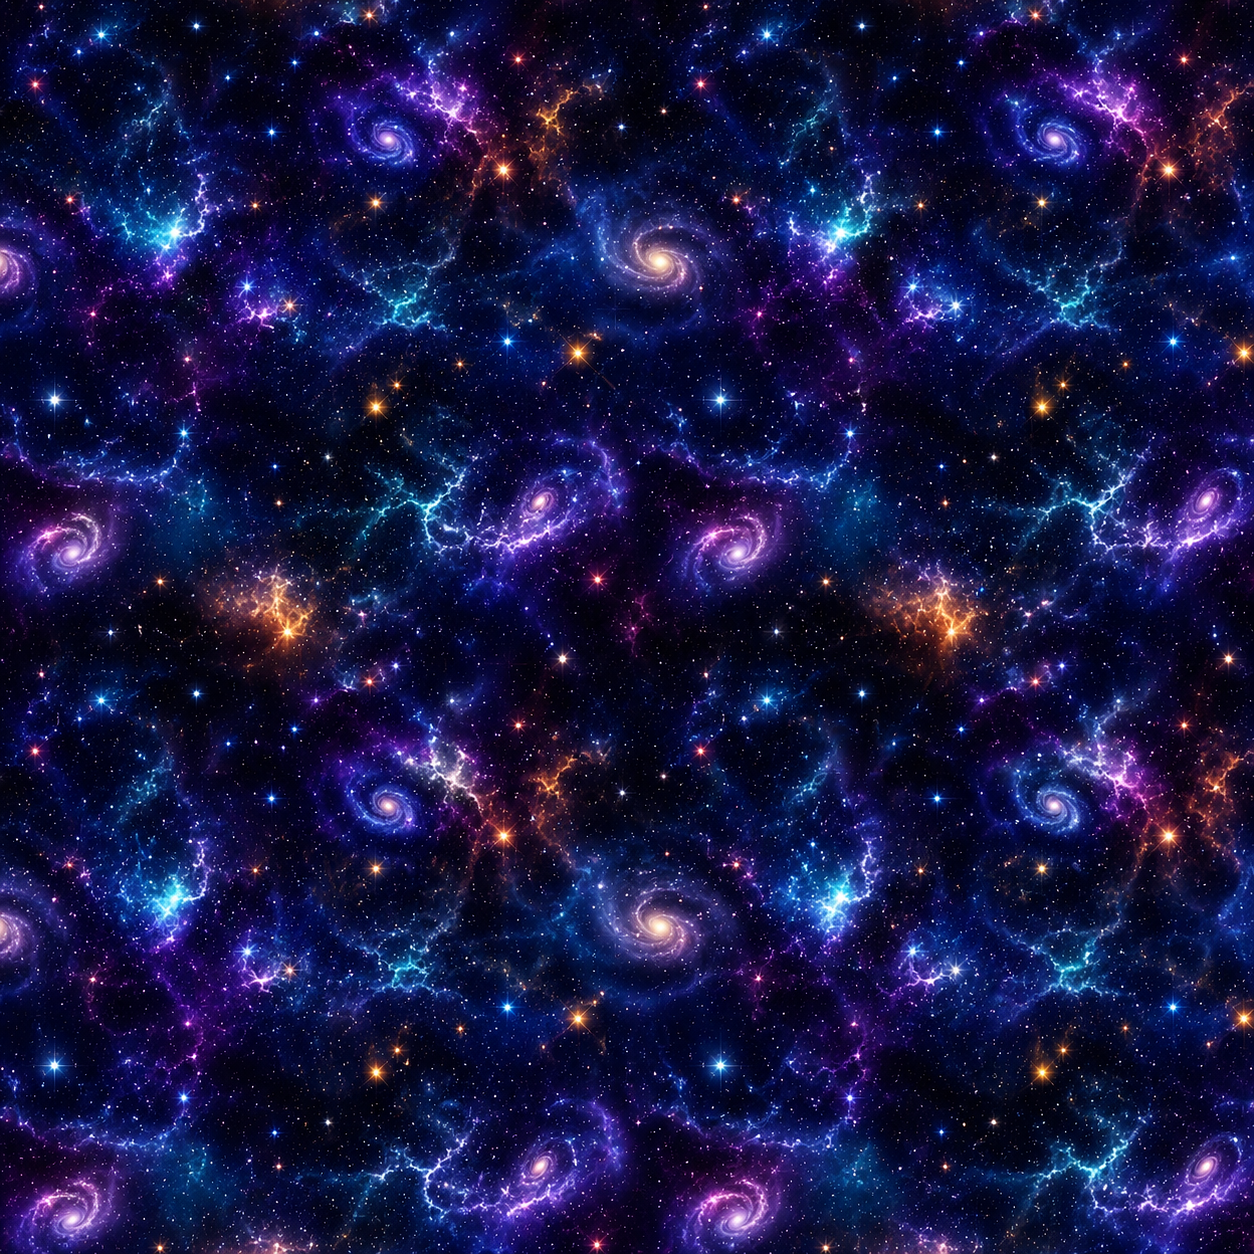
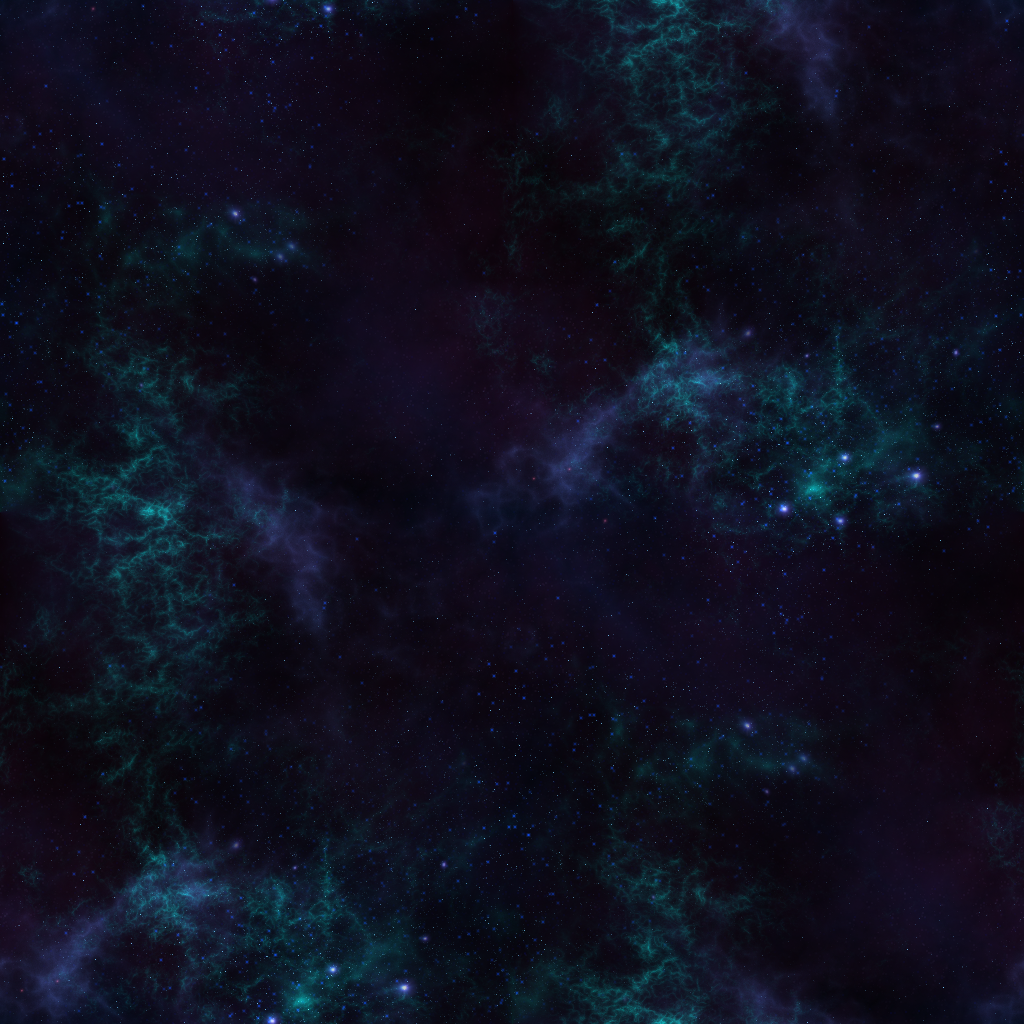
add more img

diff --git a/script.js b/script.js
@@ -1483,7 +1483,7 @@ function tv_stars(k) {
 
 const spaceImages = {};
 
-for(let i=1;i<=3;i++){
+for(let i=1;i<=33;i++){
     let name = String(i).padStart(3,'0');
     let img = new Image();
     img.src = `img/space/${name}.png`;
@@ -1523,6 +1523,70 @@ function tv_space(k, imgName="001") {
     let ox = -s.x1;
     let oy = -s.y1;
 
+    for (let xPos = ox; xPos < W; xPos += img.width) {
+        for (let yPos = oy; yPos < H; yPos += img.height) {
+            x.drawImage(
+                img,
+                xPos,
+                yPos,
+                img.width,
+                img.height
+            );
+        }
+    }
+}
+
+// ฟังก์ชันสุ่มชื่อรูปภาพจากรายการ 001 - 020
+function getRandomSpaceImgName() {
+    let randomNum = Math.floor(Math.random() * 33) + 1;
+    return String(randomNum).padStart(3, '0');
+}
+
+function tv_space_random(k) {
+    // 1. กำหนดค่าเริ่มต้นให้กับ State ถ้ายังไม่มี
+    if (!S.tv_space) {
+        S.tv_space = {
+            x1: 0,
+            y1: 0,
+            speedX: 5,
+            speedY: 1,
+            currentImgName: getRandomSpaceImgName(), // รูปเริ่มต้นจากการสุ่ม
+            lastSwitchTime: Date.now()                // บันทึกเวลาเริ่มต้น
+        };
+    }
+
+    let s = S.tv_space;
+
+    // 2. ตรวจสอบว่าผ่านไปครบ 60 วินาที (60,000 ms) หรือยัง
+    const now = Date.now();
+    if (now - s.lastSwitchTime >= 60000) {
+        s.currentImgName = getRandomSpaceImgName(); // สุ่มรูปใหม่
+        s.lastSwitchTime = now;                     // รีเซ็ตเวลาเริ่มต้นใหม่
+    }
+
+    // 3. ดึงรูปภาพตามคีย์ที่สุ่มได้ปัจจุบัน
+    const img = spaceImages[s.currentImgName];
+
+    // ตรวจสอบการโหลดรูป
+    if (!img?.complete || !img.width) {
+        bg(0);
+        x.fillStyle = "#888";
+        x.font = "20px sans-serif";
+        x.textAlign = "center";
+        x.fillText("Loading...", W/2, H/2);
+        return;
+    }
+
+    bg(0);
+
+    // คำนวณตำแหน่งการเลื่อน (Scrolling)
+    s.x1 = (s.x1 + k * s.speedX) % img.width;
+    s.y1 = (s.y1 + k * s.speedY) % img.height;
+
+    let ox = -s.x1;
+    let oy = -s.y1;
+
+    // วาดรูปต่อกันเต็มหน้าจอ
     for (let xPos = ox; xPos < W; xPos += img.width) {
         for (let yPos = oy; yPos < H; yPos += img.height) {
             x.drawImage(
@@ -5332,11 +5396,8 @@ const scenes = {
     tv_dvd:        { category: "tv", type: "canvas", title: "TV RETRO DVD DRIFT [60FPS]", render: (k) => tv_dvd(k) }, 
     tv_inkBubbles: { category: "tv", type: "canvas", title: "TV FLOATING BUBBLES", render: (k) => tv_inkBubbles(k) }, 
     tv_spacep1:  	   { category: "tv", type: "canvas", title: "TV SPACE : 1", render: (k) => tv_space(k,"001") }, 
-    tv_spacep2:  	   { category: "tv", type: "canvas", title: "TV SPACE : 2", render: (k) => tv_space(k,"002") }, 
-    tv_spacep3:  	   { category: "tv", type: "canvas", title: "TV SPACE : 3", render: (k) => tv_space(k,"003") }, 
     tv_space2p1:	   { category: "tv", type: "canvas", title: "TV SPACE 2Layer : 1", render: (k) => tv_space2(k,"001") }, 
-    tv_space2p2:	   { category: "tv", type: "canvas", title: "TV SPACE 2Layer : 2", render: (k) => tv_space2(k,"002") }, 
-    tv_space2p3:	   { category: "tv", type: "canvas", title: "TV SPACE 2Layer : 3", render: (k) => tv_space2(k,"003") }, 
+    tv_space_random:	   { category: "tv", type: "canvas", title: "TV SPACE Random", render: (k) => tv_space_random(k) }, 
 
     matrix:    { category: "pc", type: "canvas", title: "MATRIX FLOW", render: (k) => matrix(k) }, 
     matrix2:   { category: "pc", type: "canvas", title: "AUTHENTIC MATRIX", render: (k) => matrix2(k) }, 
